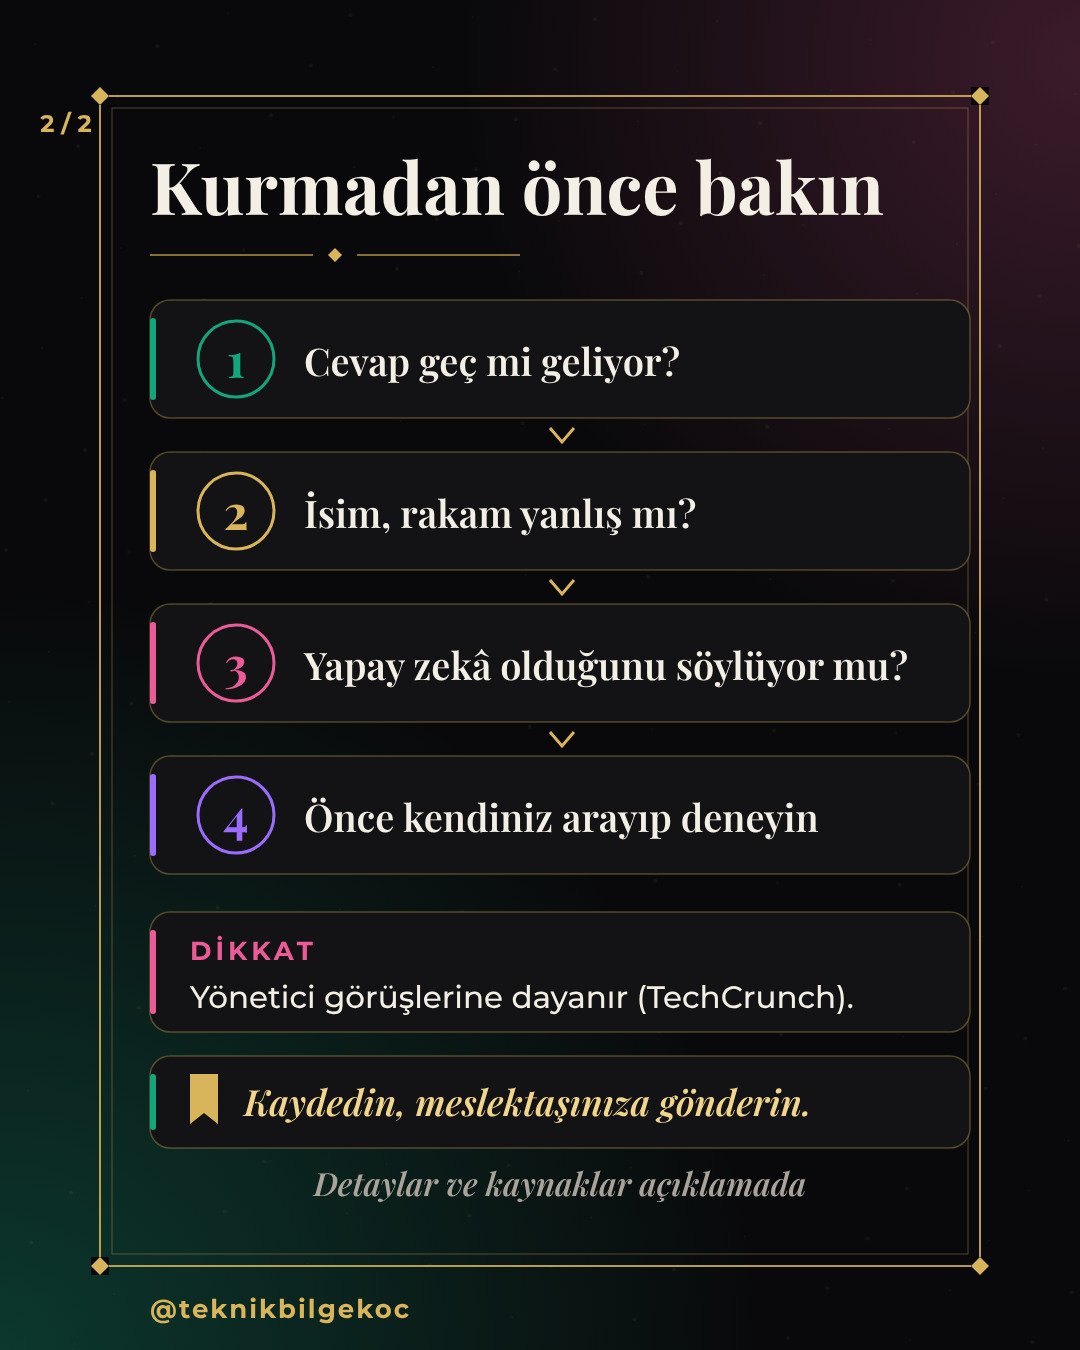
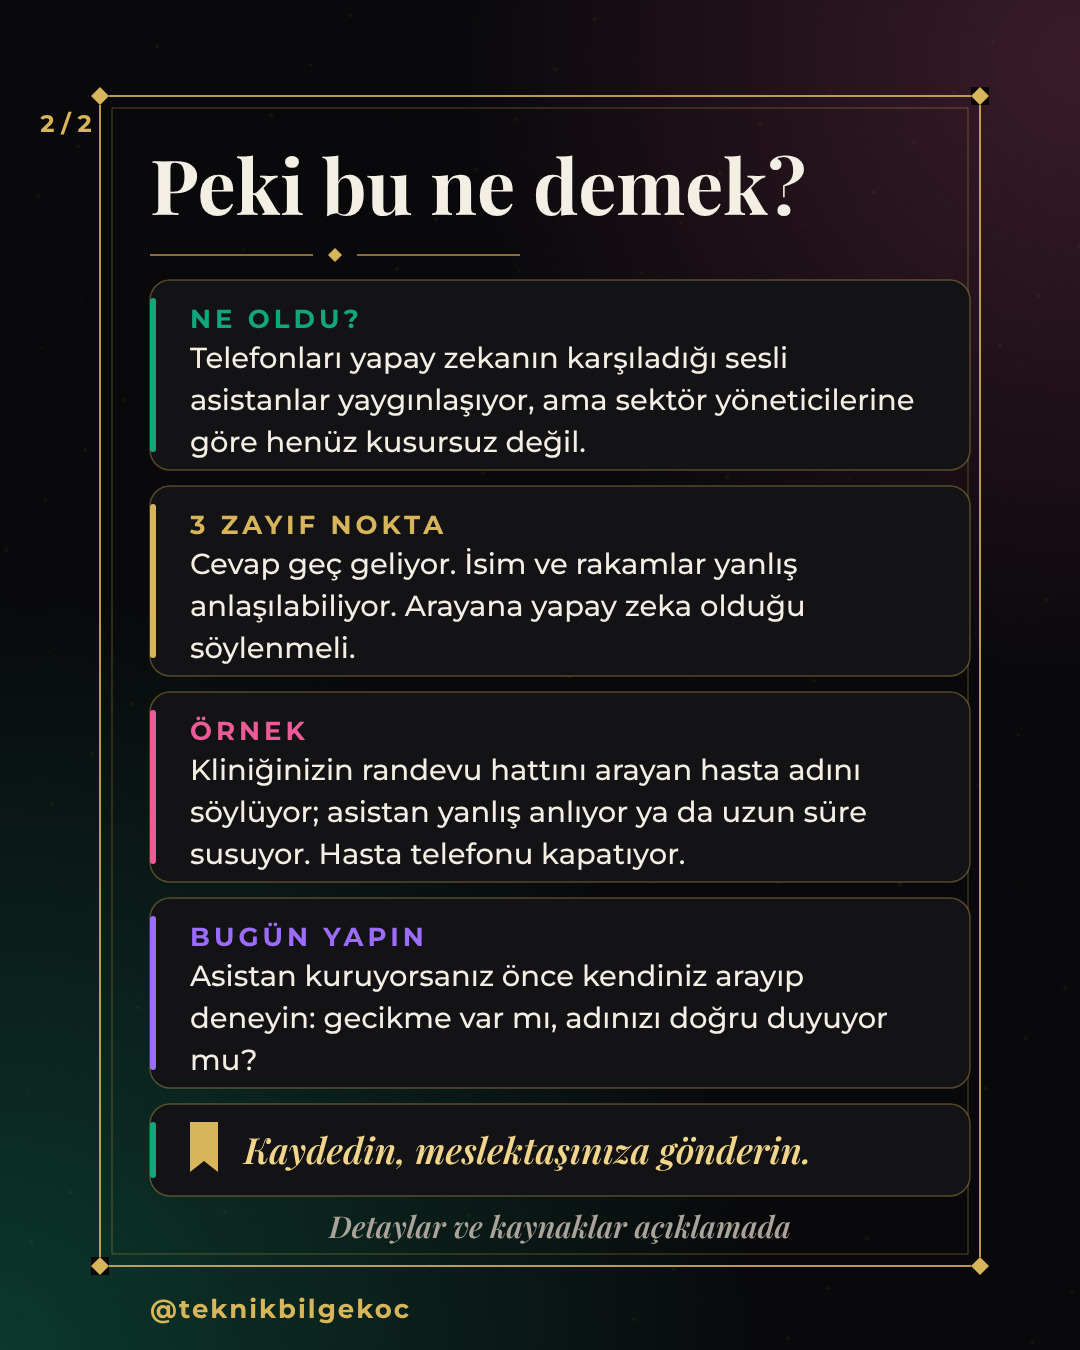
12 Ekim v3: 2. sayfa okunur detay sayfası (şema yerine), örnekli
Claude-Session: https://claude.ai/code/session_013cfyo3RWBSu7N5CwDk35tK

diff --git a/2026-10-12-v3/s2.js b/2026-10-12-v3/s2.js
@@ -1,27 +1,26 @@
-// Şema sayfası (2 / 2): haberi/ipucunu adım adım gösteren diyagram + dikkat notu + kaydet çağrısı. Detaylar caption'da.
+// Okunur detay sayfası (2 / 2): haberin özeti, gerçek hayattan örnek, 3 zayıf nokta, bugün yapılacak. Detaylar caption'da.
 async function build() {
   await fontsReady(); paper('pink'); footer('2 / 2');
-  serif('Kurmadan önce bakın', 150, 215, { size: 72 });
+  serif('Peki bu ne demek?', 150, 215, { size: 76 });
   divider(150, 520, 255);
-  const steps = [['Cevap geç mi geliyor?', C.emerald], ['İsim, rakam yanlış mı?', C.gold], ['Yapay zekâ olduğunu söylüyor mu?', C.pink], ['Önce kendiniz arayıp deneyin', C.purple]];
-  let y = 300;
-  steps.forEach(([s, c], i) => {
-    card(150, y, 820, 118, c);
-    el('circle', { cx: 236, cy: y + 59, r: 38, fill: 'none', stroke: c, 'stroke-width': 3 });
-    serif(String(i + 1), 236, y + 78, { size: 48, color: c, anchor: 'middle' });
-    serif(s, 304, y + 76, { size: 38, weight: 600, color: C.ivory });
-    if (i < 3) el('path', { d: `M550 ${y + 128} l12 14 l12 -14`, fill: 'none', stroke: C.gold, 'stroke-width': 3 });
-    y += 152;
-  });
-  // dikkat notu
-  card(150, y + 4, 820, 120, C.pink);
-  text('DİKKAT', 190, y + 52, { size: TS.label, weight: 700, color: C.pink, ls: 4 });
-  text('Yönetici görüşlerine dayanır (TechCrunch).', 190, y + 100, { size: 31, color: C.ivory });
-  // kaydet çağrısı
-  card(150, y + 148, 820, 92, C.emerald);
-  el('path', { d: `M190 ${y + 166} h28 v50 l-14 -11 l-14 11 z`, fill: C.gold });
-  serif('Kaydedin, meslektaşınıza gönderin.', 244, y + 208, { size: 36, weight: 600, italic: true, color: C.goldHi });
-  serif('Detaylar ve kaynaklar açıklamada', 560, y + 288, { size: 32, weight: 600, italic: true, color: C.muted, anchor: 'middle' });
+  let y = 280;
+  const blok = (baslik, metin, renk, size = 29) => {
+    const h = para(metin, 190, 0, { size, width: 740, dry: true }) - 0;
+    const hh = 60 + h + 4;
+    card(150, y, 820, hh, renk);
+    text(baslik, 190, y + 48, { size: TS.label, weight: 700, color: renk, ls: 4 });
+    para(metin, 190, y + 88, { size, width: 740, color: C.ivory });
+    y += hh + 16;
+  };
+  blok('NE OLDU?', 'Telefonları yapay zekanın karşıladığı sesli asistanlar yaygınlaşıyor, ama sektör yöneticilerine göre henüz kusursuz değil.', C.emerald);
+  blok('3 ZAYIF NOKTA', 'Cevap geç geliyor. İsim ve rakamlar yanlış anlaşılabiliyor. Arayana yapay zeka olduğu söylenmeli.', C.gold);
+  blok('ÖRNEK', 'Kliniğinizin randevu hattını arayan hasta adını söylüyor; asistan yanlış anlıyor ya da uzun süre susuyor. Hasta telefonu kapatıyor.', C.pink);
+  blok('BUGÜN YAPIN', 'Asistan kuruyorsanız önce kendiniz arayıp deneyin: gecikme var mı, adınızı doğru duyuyor mu?', C.purple);
+  card(150, y, 820, 92, C.emerald);
+  el('path', { d: `M190 ${y + 18} h28 v50 l-14 -11 l-14 11 z`, fill: C.gold });
+  serif('Kaydedin, meslektaşınıza gönderin.', 244, y + 60, { size: 36, weight: 600, italic: true, color: C.goldHi });
+  serif('Detaylar ve kaynaklar açıklamada', 560, y + 134, { size: 30, weight: 600, italic: true, color: C.muted, anchor: 'middle' });
+  console.log('son y', y + 140);
   done();
 }
 build();
